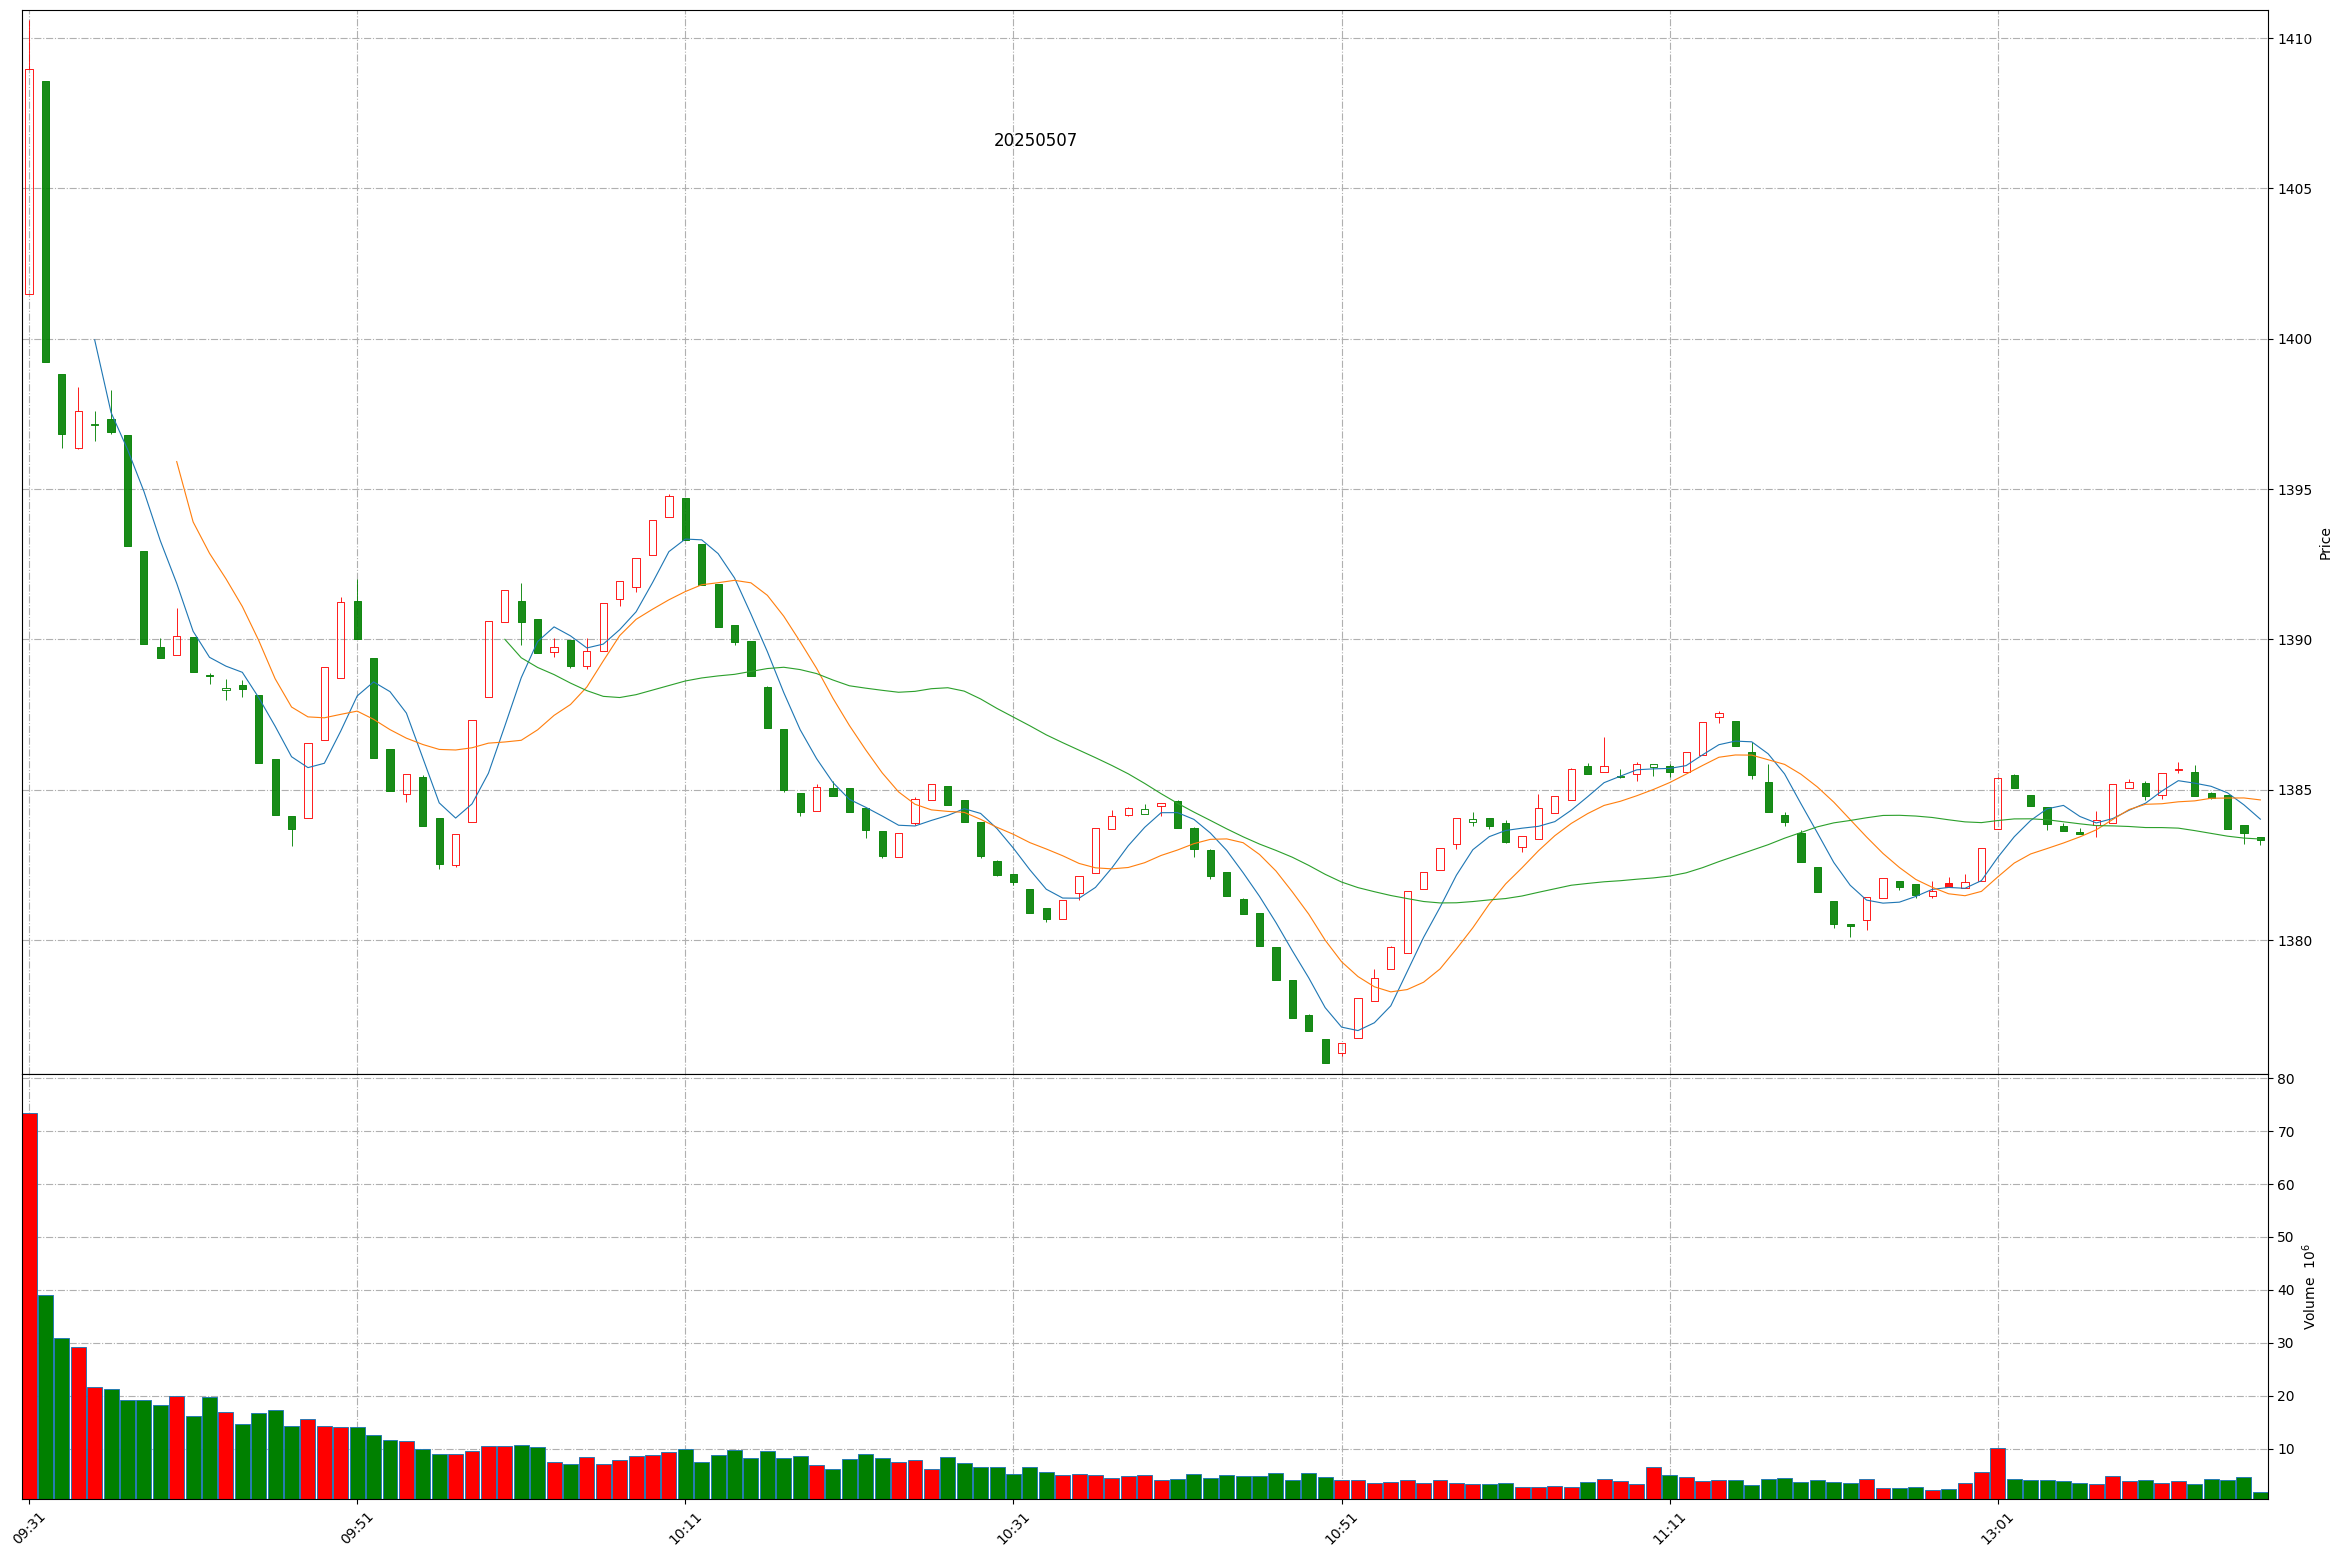
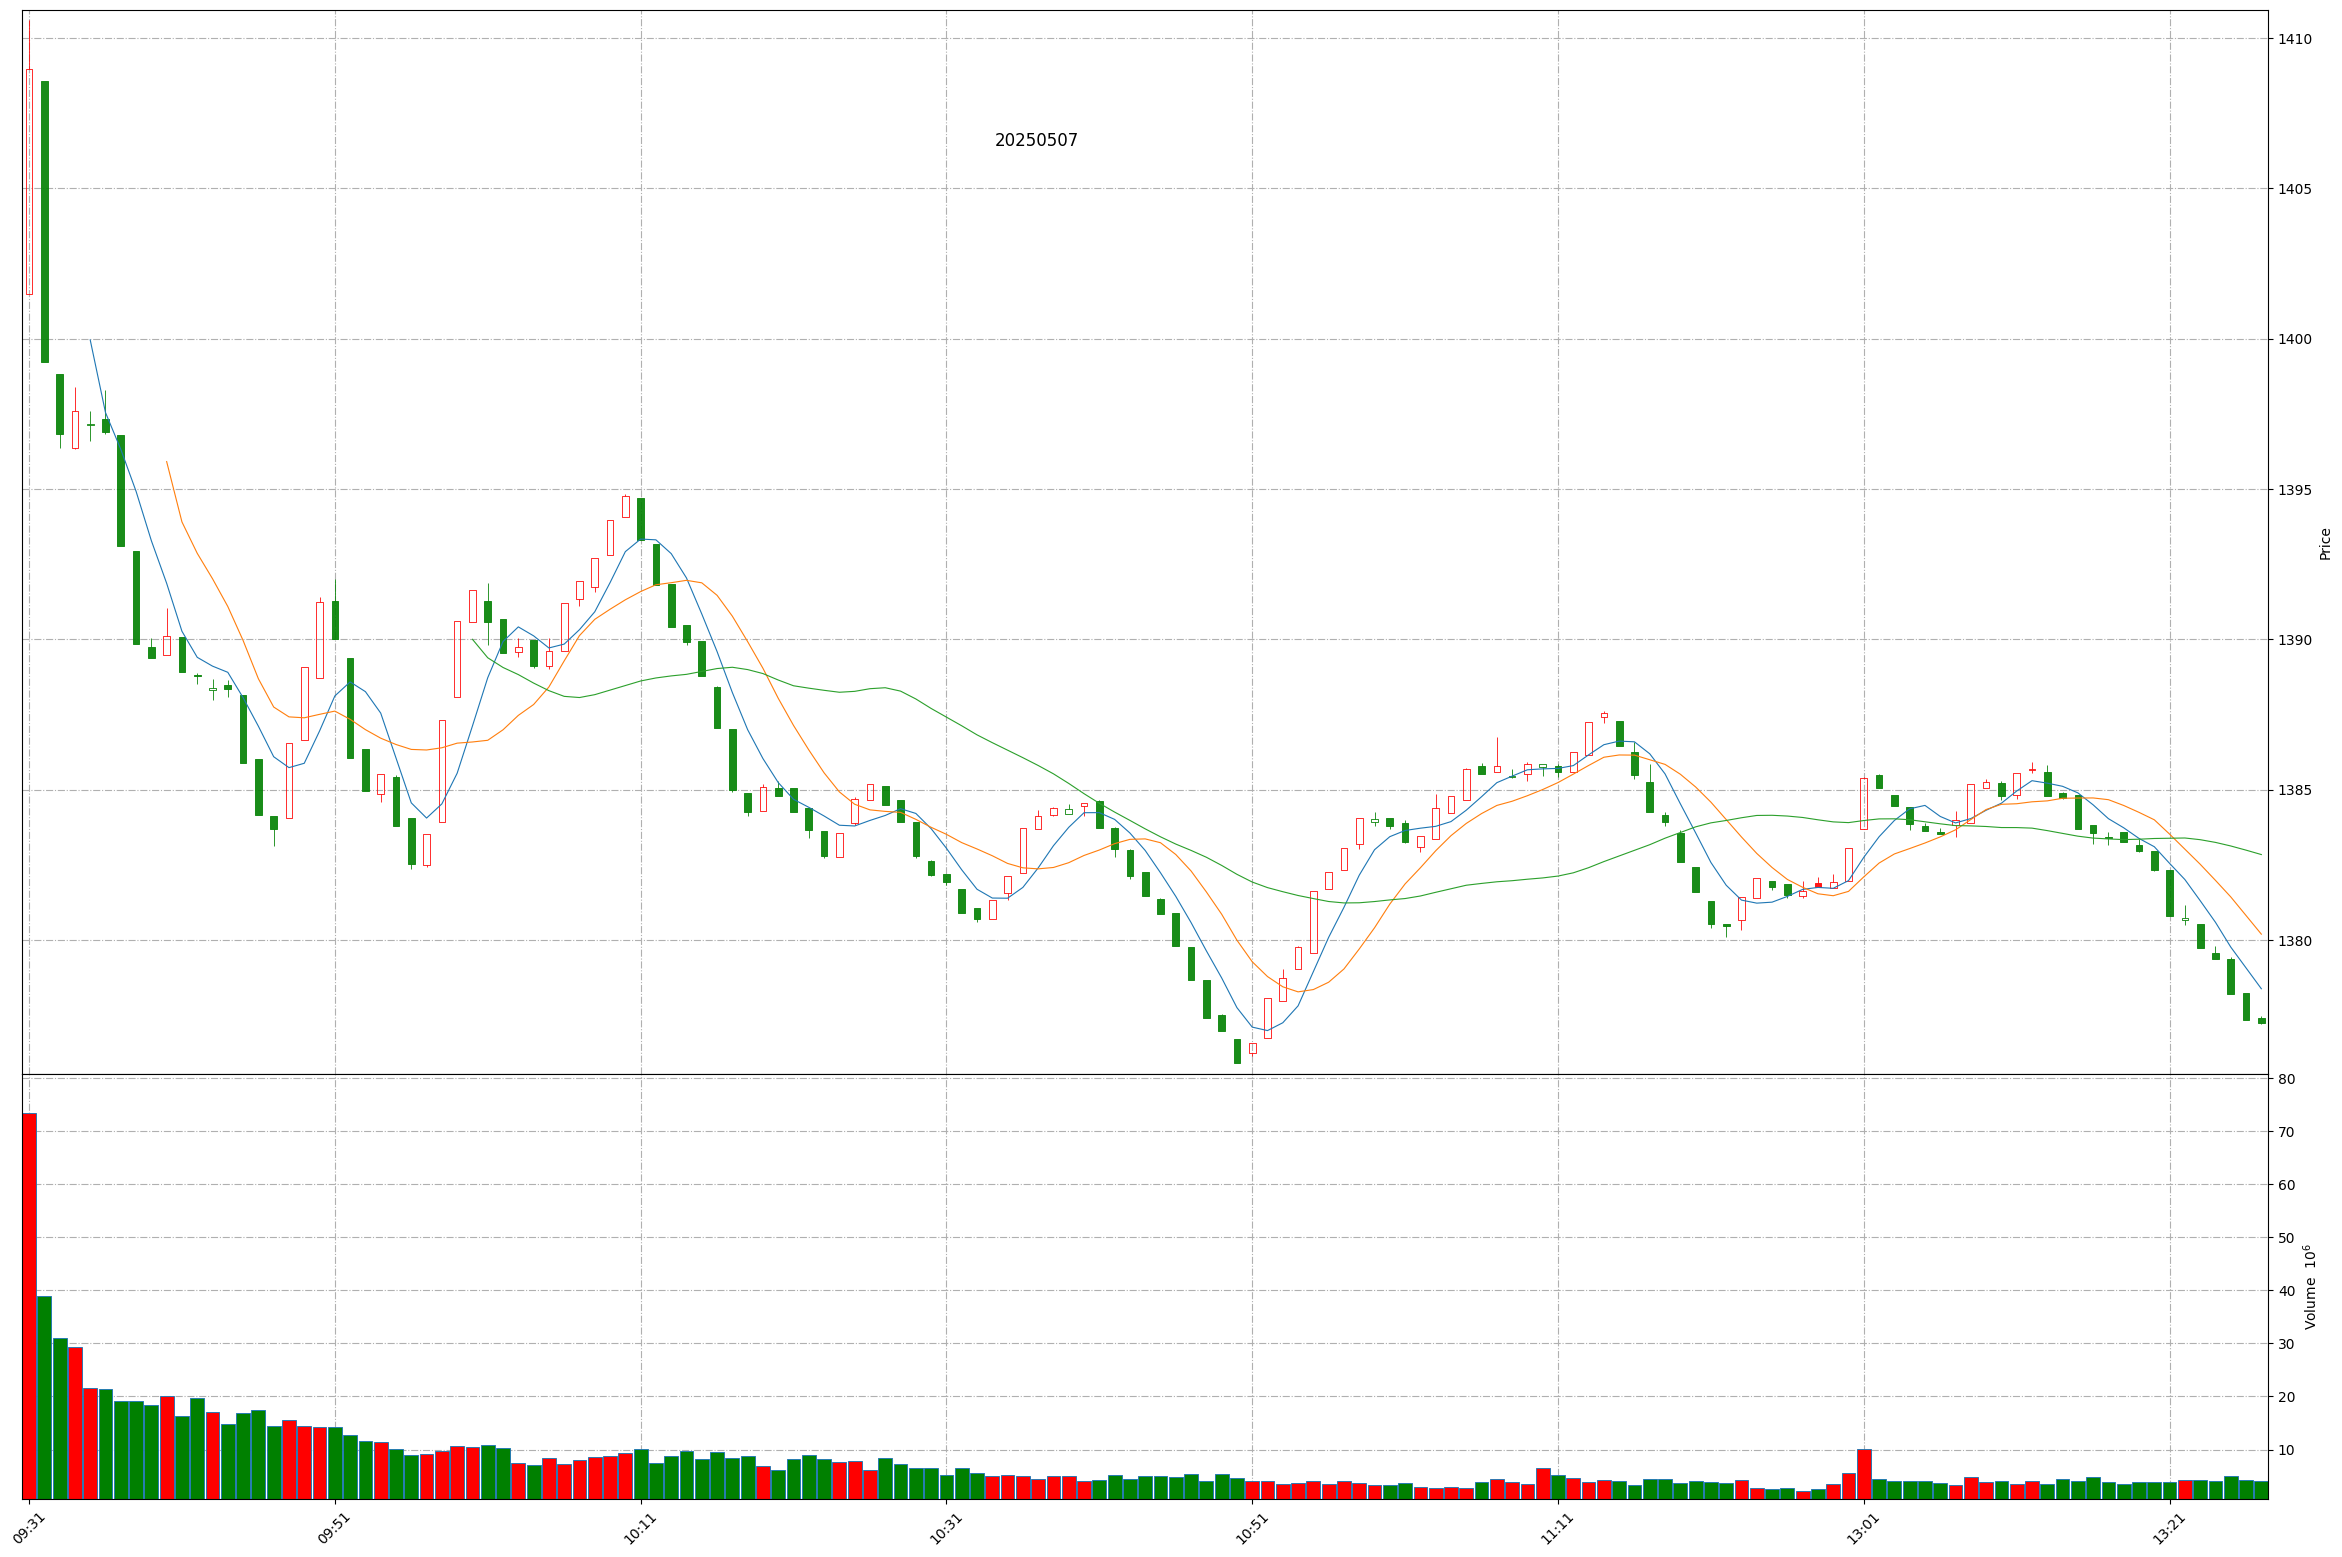
Github action update at 2025-05-07 13:27:14.

diff --git a/README.md b/README.md
@@ -1,11 +1,11 @@
 
 # Daily-A-share-market-quotes 每日 A 股指数（5min 更新）- 20250507
 
-### 上证指数 20250507 13:16
+### 上证指数 20250507 13:27
 ![](./fig/2025/5/20250507-sh000001.png)
 
-### 深证成指 20250507 13:16
+### 深证成指 20250507 13:27
 ![](./fig/2025/5/20250507-sz399001.png)
 
-### 北证50 20250507 13:16
+### 北证50 20250507 13:27
 ![](./fig/2025/5/20250507-bj899050.png)
